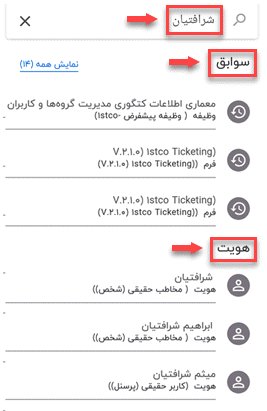
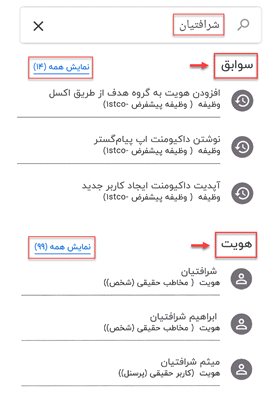
Search records and identities edit

diff --git a/help2.5.4/Payamgostar'sMobileApp/SearchRecordsAndIdentities.md b/help2.5.4/Payamgostar'sMobileApp/SearchRecordsAndIdentities.md
@@ -1,11 +1,19 @@
 # جستجو در سوابق و هویت ها
 
-ممکن است که کاربران بنا به هر دلیلی بخواهند نام یا عبارتی را در بین سوابق و هویتها جستجو کنند، این امکان برای آنها فراهم شده تا با انتخاب کارتابل از منوی پایین صفحه و زدن روی علامت سرچ (ذرهبین) بتوانند لیستی از تمامی سوابق (وظیفه، فرم و...) و هویتها که عنوان مدنظر در یکی از فیلدهای آن اعم از عنوان، توضیحات، خلاصه سابقه و... آمده است را مشاهده نمایند. 
+اگر بخواهید در نسخه اپ پیام گستر، نام یا عبارتی را در بین سوابق و هویتها جستجو کنید، باید از مسیر **کارتابل** > **جستجو** (علامت ذرهبین) اقدام نمایید. با این امکان میتوانید لیستی از تمامی سوابق (وظیفه، فرم و...) و هویتها که نام مدنظر در یکی از فیلدهای آن همچون عنوان، توضیحات، خلاصه سابقه و... آمده است را مشاهده نمایید. 
+
 
 ![جستجو در سوابق و هویت ها](./Images/SearchRecordsAndIdentities.png)
 
-پس از تایپ عنوان مدنظر در قسمت سرچبار ابتدا لیست تمامی **سوابق** و سپس لیست تمامی **هویت**هایی که واژه جستجو شده در یکی از فیلدهای آن آمده، برای شما نمایش داده میشود.
+پس از تایپ عنوان مدنظر در نوار جستجو (Search bar) ابتدا لیست تمامی **سوابق** و سپس لیست تمامی **هویت**هایی که واژه جستجو شده در یکی از فیلدهای آن آمده، برای شما نمایش داده میشود.
 
 ![نتیجه سرچ در سوابق و هویت](./Images/SearchResultInRecordsAndIdentity.png)
 
-کاربران پس از بررسی لیست ارائه شده و انتخاب مورد منظور، وارد صفحهی مرتبط با هویت یا سابقه میشوند و در آنجا تمامی اطلاعات مختص به آن را مشاهده و در صورت تمایل تغییر داده یا ادیت میکنند.
+پس از بررسی لیست ارائه شده و انتخاب مورد منظور، وارد صفحهی مرتبط با هویت یا سابقه میشوید و در آنجا تمامی اطلاعات مختص به آن را مشاهده و در صورت تمایل میتوانید تغییر دهید.<br>
+**نمایش همه**:
+در صفحهی اصلی تعداد محدودی آیتم به شما نمایش داده میشود و برای مشاهدهی لیست تمامی موارد، باید بر روی **نمایش همه** کلیک کنید. پس از کلیک بر روی *نمایش همه سوابق*، شما به صفحهی تاریخچه CRM منتقل میشوید  که علاوه بر امکان مشاهدهی تمامی سوابق ثبت شده در سیستم و استفاده از فیلترها برای رسیدن به سابقهی مدنظر، میتوانید لیست خروجی جستجویتان را در پایین صفحه در قسمت **نتایج جستجو** مشاهده نمایید. با کلیک بر روی *نمایش همه هویت*، نرمافزار شما را به صفحهی جستجوی پیشرفته هدایت میکند و در آنجا علاوه بر امکان مشاهده تمامی انواع هویت و استفاده از فیلترها، میتوانید لیست خروجی جستجویتان را در  **نتایج جستجو**  مشاهده نموده و در صورت تمایل از همانجا وارد صفحهی هویت مدنظر شوید.
+
+>**نکته**<br>
+مشاهدهی کامل نتیجه جستجو به داشتن مجوز **مشاهده لیست آیتم** بستگی دارد و لیست خروجی جستجوی شما با توجه به مجوزهایی که به کاربریتان داده شده، میتواند متغیر باشد.
+
+  به این نکته توجه داشته باشید که نتیجهی جستجو در نسخههای سازمانی و استاندارد با هم تفاوت دارد؛ در نسخهی استاندارد تنها جستجو بین هویتها انجام میشود در حالیکه در نسخهی سازمانی جستجو بین تمامی آیتمهای هویت، سوابق، پیامهای دریافتی و ارسالی، پیامک و ایمیل انجام میشود.
